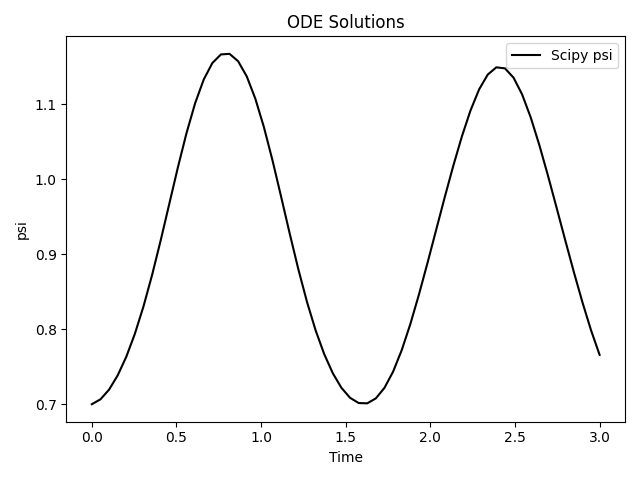
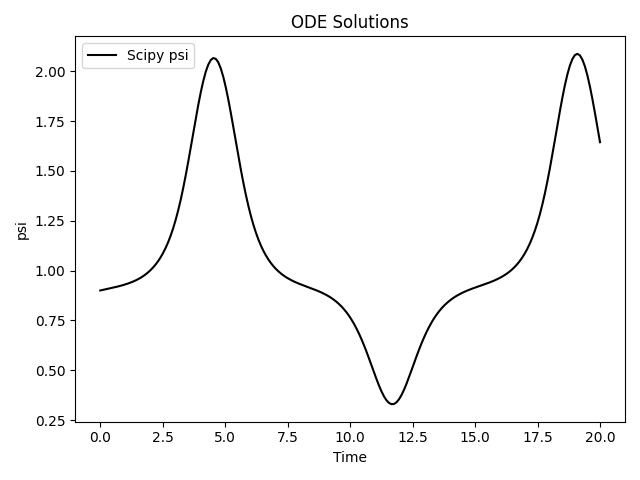
Now systen of equations for guiding center working well

diff --git a/params_and_model.py b/params_and_model.py
@@ -3,7 +3,7 @@ import numpy as np
 import jax.numpy as jnp
 
 model = 'guiding-center' # 'lorenz' or 'guiding-center'
-solver_models = ["Scipy"]#, "PyTorch", "JAX"]
+solver_models = ["Scipy", "PyTorch", "JAX"]
 label_styles = [['k-','k*'], ['r--','rx'], ['b-.','b+']]
 
 # Parameters and initial conditions
@@ -22,15 +22,13 @@ if model == 'lorenz':
     learning_rate_jax = 0.2
 elif model == 'guiding-center':
     variables = ['psi', 'theta', 'phi', 'v']#[0:3]
-    initial_conditions = [0.7, 0.1, 0.1, 0.8]
-    a_initial = [1.0, 0.2, 0.05]  # B0, B1c, B01s
-    # vpar_sign = 1
-    Lambda = 1-initial_conditions[3]**2 # 0.8
-    iota = 0.41
+    initial_conditions = [0.9, 0.1, 0.1, -0.05]
+    a_initial = [1.0, 0.3, 0.001]  # B0, B1c, B01s
+    iota = 0.3
     G = 0.1
     tmin = 0
-    tmax = 3
-    nt_per_time_unit = 20
+    tmax = 16
+    nt_per_time_unit = 10
     n_steps_to_compute_loss = 30
     x_target = initial_conditions[0]
     x_to_optimize = 0 # optimize x0
@@ -50,24 +48,41 @@ n_steps_to_compute_loss = np.min([n_steps_to_compute_loss, nt])
 # Define the system of equations
 if model == 'guiding-center':
     ## Guiding-center equations for x=psi, y=theta, z=phi
-    # Define the system of equations
     def B(a, x, y, z):
-        return a[0] + a[1] * jnp.sqrt(x) * jnp.cos(y) + a[2] * jnp.sin(z)
-    
+        return a[0] + a[1] * np.sqrt(x) * np.cos(y) + a[2] * np.sin(z)
     def dBdx(a, x, y, z):
-        return a[1] * jnp.cos(y) / (2 * jnp.sqrt(x))
-    
+        return a[1] * np.cos(y) / (2 * np.sqrt(x))
     def dBdy(a, x, y, z):
-        return -a[1] * jnp.sqrt(x) * jnp.sin(y)
-    
+        return -a[1] * np.sqrt(x) * np.sin(y)
     def dBdz(a, x, y, z):
+        return a[2] * np.cos(z)
+    
+    def B_jax(a, x, y, z):
+        return a[0] + a[1] * jnp.sqrt(x) * jnp.cos(y) + a[2] * jnp.sin(z)
+    def dBdx_jax(a, x, y, z):
+        return a[1] * jnp.cos(y) / (2 * jnp.sqrt(x))
+    def dBdy_jax(a, x, y, z):
+        return -a[1] * jnp.sqrt(x) * jnp.sin(y)
+    def dBdz_jax(a, x, y, z):
         return a[2] * jnp.cos(z)
-
+    
+    def B_torch(a, x, y, z):
+        return a[0] + a[1] * torch.sqrt(x) * torch.cos(y) + a[2] * torch.sin(z)
+    def dBdx_torch(a, x, y, z):
+        return a[1] * torch.cos(y) / (2 * torch.sqrt(x))
+    def dBdy_torch(a, x, y, z):
+        return -a[1] * torch.sqrt(x) * torch.sin(y)
+    def dBdz_torch(a, x, y, z):
+        return a[2] * torch.cos(z)
+    
+    # Lambda = mu*B0/Energy
+    Lambda = (1-initial_conditions[3]**2)/B(a_initial, initial_conditions[0], initial_conditions[1], initial_conditions[2]) # 0.8
+    
+    # Define the system of equations
     def system(w, t, a):
         # x, y, z, v = w
         # v_parallel = vpar_sign*jnp.sqrt(1-Lambda*B_val)
         x, y, z, v_parallel = w
-
         B_val = B(a, x, y, z)
         dBdx_val = dBdx(a,x,y,z)
         dBdy_val = dBdy(a,x,y,z)
@@ -75,7 +90,22 @@ if model == 'guiding-center':
         dxdt = -1/B_val*dBdy_val*(2/Lambda-B_val)
         dydt =  1/B_val*dBdx_val*(2/Lambda-B_val)+iota*v_parallel*B_val/G
         dzdt = v_parallel*B_val/G
-        dvdt = -(iota*dBdy_val + dBdz_val)*B_val/G
+        dvdt = -(iota*dBdy_val + dBdz_val)*B_val/G*Lambda/2
+        # return [dxdt, dydt, dzdt]
+        return [dxdt, dydt, dzdt, dvdt]
+
+    def system_jax(w, t, a):
+        # x, y, z, v = w
+        # v_parallel = vpar_sign*jnp.sqrt(1-Lambda*B_val)
+        x, y, z, v_parallel = w
+        B_val = B_jax(a, x, y, z)
+        dBdx_val = dBdx_jax(a,x,y,z)
+        dBdy_val = dBdy_jax(a,x,y,z)
+        dBdz_val = dBdz_jax(a,x,y,z)
+        dxdt = -1/B_val*dBdy_val*(2/Lambda-B_val)
+        dydt =  1/B_val*dBdx_val*(2/Lambda-B_val)+iota*v_parallel*B_val/G
+        dzdt = v_parallel*B_val/G
+        dvdt = -(iota*dBdy_val + dBdz_val)*B_val/G*Lambda/2
         # return [dxdt, dydt, dzdt]
         return [dxdt, dydt, dzdt, dvdt]
 
@@ -89,15 +119,19 @@ if model == 'guiding-center':
             # v_parallel = vpar_sign*torch.sqrt(1-Lambda*B_val)
             x, y, z, v_parallel = w[..., 0], w[..., 1], w[..., 2], w[..., 3]
             
-            B_val    = self.a[0] + self.a[1] * torch.sqrt(x) * torch.cos(y) + self.a[2] * torch.sin(z)
-            dBdx_val = self.a[1] * torch.cos(y) / (2 * torch.sqrt(x))
-            dBdy_val =-self.a[1] * torch.sqrt(x) * torch.sin(y)
-            dBdz_val = self.a[2] * torch.cos(y)
+            # B_val    = self.a[0] + self.a[1] * torch.sqrt(x) * torch.cos(y) + self.a[2] * torch.sin(z)
+            # dBdx_val = self.a[1] * torch.cos(y) / (2 * torch.sqrt(x))
+            # dBdy_val =-self.a[1] * torch.sqrt(x) * torch.sin(y)
+            # dBdz_val = self.a[2] * torch.cos(y)
+            B_val = B_torch(self.a, x, y, z)
+            dBdx_val = dBdx_torch(self.a,x,y,z)
+            dBdy_val = dBdy_torch(self.a,x,y,z)
+            dBdz_val = dBdz_torch(self.a,x,y,z)
 
             dxdt = -1/B_val*dBdy_val*(2/Lambda-B_val)
             dydt =  1/B_val*dBdx_val*(2/Lambda-B_val)+iota*v_parallel*B_val/G
             dzdt = v_parallel*B_val/G
-            dvdt = -(iota*dBdy_val + dBdz_val)*B_val/G
+            dvdt = -(iota*dBdy_val + dBdz_val)*B_val/G*Lambda/2
             # return torch.stack([dxdt, dydt, dzdt], dim=-1)
             return torch.stack([dxdt, dydt, dzdt, dvdt], dim=-1)
 elif model == 'lorenz':

diff --git a/main_odes.py b/main_odes.py
@@ -8,7 +8,7 @@ from jacobi import compute_jacobian_scipy, compute_jacobian_torch, compute_jacob
 from differences import compute_diff
 from params_and_model import (
     initial_conditions, tmin, tmax, nt, a_initial, model, iota, Lambda,
-    solver_models, variables, label_styles
+    solver_models, variables, label_styles, B
 )
 from jax.config import config
 config.update("jax_enable_x64", True)
@@ -38,8 +38,12 @@ def main(results_path='results'):
     for i, func in enumerate(variables):
         plt.figure()
         for w_i, label, ls in zip(w_solvers, solver_models, label_styles):
-            w_i_val = w_i[:, i].detach().numpy() if label == 'PyTorch' else w_i[:, i]
-            plt.plot(t, w_i_val, ls[0], label=f'{label} {func}')
+            w_i_val = w_i.detach().numpy() if label == 'PyTorch' else w_i
+            plt.plot(t, w_i_val[:, i], ls[0], label=f'{label} {func}')
+            if model=='guiding-center' and i==3:
+                B_val = B(a_initial, w_i_val[:, 0], w_i_val[:, 1], w_i_val[:, 2])
+                v_parallel_analytical = np.sign(w_i_val[:, 3])*np.sqrt(1 - Lambda * B_val)
+                plt.plot(t, v_parallel_analytical, ls[1], label=f'{label} {func} analytical')
         plt.xlabel('Time')
         plt.ylabel(f'{func}')
         plt.title('ODE Solutions')
@@ -74,9 +78,8 @@ def main(results_path='results'):
         plt.figure()
         for w_i, label, ls in zip(w_solvers, solver_models, label_styles):
             w_i_val = w_i.detach().numpy() if label == 'PyTorch' else w_i
-            alpha = w_i_val[:, 1] - iota * w_i_val[:, 2]
-            x = w_i_val[:, 0]
-            plt.plot(np.sqrt(x) * np.cos(alpha), np.sqrt(x) * np.sin(alpha), ls[0], label=f'{label} {func}')
+            alpha = w_i_val[:, 1]# - iota * w_i_val[:, 2]
+            plt.plot(np.sqrt(w_i_val[:, 0]) * np.cos(alpha), np.sqrt(w_i_val[:, 0]) * np.sin(alpha), ls[0], label=f'{label} {func}')
         plt.xlabel(f'sqrt(psi)*cos(alpha)')
         plt.ylabel(f'sqrt(psi)*sin(alpha)')
         plt.title('ODE Solutions')
@@ -87,36 +90,28 @@ def main(results_path='results'):
         plt.figure()
         for w_i, label, ls in zip(w_solvers, solver_models, label_styles):
             w_i_val = w_i.detach().numpy() if label == 'PyTorch' else w_i
-            x = w_i_val[:, 0]
-            y = w_i_val[:, 1]
-            z = w_i_val[:, 2]
-            if w_i_val.shape[1] == 4:
-                v_parallel = w_i_val[:, 3]
-                plt.plot(t, v_parallel, ls[0], label=f'{label} {func}')
-            B_val = a_initial[0] + a_initial[1] * np.sqrt(x) * np.cos(y) + a_initial[2] * np.sin(z)
-            v_parallel_analytical = np.sqrt(1 - Lambda * B_val)
-            plt.plot(t, v_parallel_analytical, ls[1], label=f'{label} {func} analytical')
-        plt.xlabel('Time')
-        plt.ylabel(f'v_parallel')
-        plt.title('ODE Solutions')
-        plt.legend()
-        plt.tight_layout()
-        plt.savefig(os.path.join(results_path, f'initial_solution_vparallel_{model}.png'))
-
-        plt.figure()
-        for w_i, label, ls in zip(w_solvers, solver_models, label_styles):
-            w_i_val = w_i.detach().numpy() if label == 'PyTorch' else w_i
-            x = w_i_val[:, 0]
-            y = w_i_val[:, 1]
-            z = w_i_val[:, 2]
-            B_val = a_initial[0] + a_initial[1] * np.sqrt(x) * np.cos(y) + a_initial[2] * np.sin(z)
-            plt.plot(t, B_val, ls[0], label=f'{label} {func}')
+            B_val = B(a_initial, w_i_val[:, 0], w_i_val[:, 1], w_i_val[:, 2])
+            plt.plot(t, B_val, ls[0], label=f'{label}')
         plt.xlabel('Time')
         plt.ylabel(f'B')
         plt.title('ODE Solutions')
         plt.legend()
         plt.tight_layout()
         plt.savefig(os.path.join(results_path, f'initial_solution_B_{model}.png'))
+
+        plt.figure()
+        for w_i, label, ls in zip(w_solvers, solver_models, label_styles):
+            w_i_val = w_i.detach().numpy() if label == 'PyTorch' else w_i
+            B_val = B(a_initial, w_i_val[:, 0], w_i_val[:, 1], w_i_val[:, 2])
+            energy = w_i_val[:, 3]*w_i_val[:, 3] + Lambda*B_val
+            plt.plot(t, energy, ls[0], label=f'{label}')
+            print(f'Max relative energy difference for {label}:', np.max(np.abs(energy - energy[0])/energy[0]))
+        plt.xlabel('Time')
+        plt.ylabel(f'Energy')
+        plt.title('ODE Solutions')
+        plt.legend()
+        plt.tight_layout()
+        plt.savefig(os.path.join(results_path, f'initial_solution_energy_{model}.png'))
 
 
     print(f'All plots saved to results folder {results_path}.')

diff --git a/jacobi.py b/jacobi.py
@@ -5,7 +5,7 @@ from jax import jit, jacobian as jax_jacobian
 from scipy.integrate import solve_ivp, odeint
 from torchdiffeq import odeint as torch_odeint
 from jax.experimental.ode import odeint as jax_odeint
-from params_and_model import system, ODEFunc, initial_conditions, a_initial, tmin, tmax, nt, delta_jacobian_scipy
+from params_and_model import system, system_jax, ODEFunc, initial_conditions, a_initial, tmin, tmax, nt, delta_jacobian_scipy
 
 num_functions = len(initial_conditions)  # assuming number of functions is the same as the length of initial conditions
 
@@ -50,7 +50,7 @@ def compute_jacobian_jax():
     initial_conditions_jax = jnp.array(initial_conditions, dtype=jnp.float64)
     a_jax = jnp.array(a_initial, dtype=jnp.float64)
     t_jax = jnp.linspace(tmin, tmax, nt)
-    system_jit = jit(system)
+    system_jit = jit(system_jax)
     Jacobian_jax_fn = jax_jacobian(lambda a: jax_odeint(system_jit, initial_conditions_jax, t_jax, a)[-1])
     Jacobian_jax = Jacobian_jax_fn(a_jax)
     return Jacobian_jax

diff --git a/solver.py b/solver.py
@@ -8,7 +8,7 @@ import torch
 # import torchode as to
 from functools import partial
 from jax.experimental.ode import odeint as jax_odeint
-from params_and_model import system, ODEFunc, initial_conditions, a_initial, tmin, tmax, nt
+from params_and_model import system, system_jax, ODEFunc, initial_conditions, a_initial, tmin, tmax, nt
 
 # Solve the ODE using Scipy
 def solve_with_scipy(a=None):
@@ -47,7 +47,7 @@ def solve_with_jax(a=None):
     else:
         a_jax = jnp.array(a_initial, dtype=jnp.float64)
     t_jax = jnp.linspace(tmin, tmax, nt)
-    system_jit = jit(system)
+    system_jit = jit(system_jax)
     # solution_jax = jax_odeint(system_jit, initial_conditions_jax, t_jax, a_jax)
     solution_jax = jax_odeint(partial(system_jit, a=a_jax), initial_conditions_jax, t_jax)
     return solution_jax
